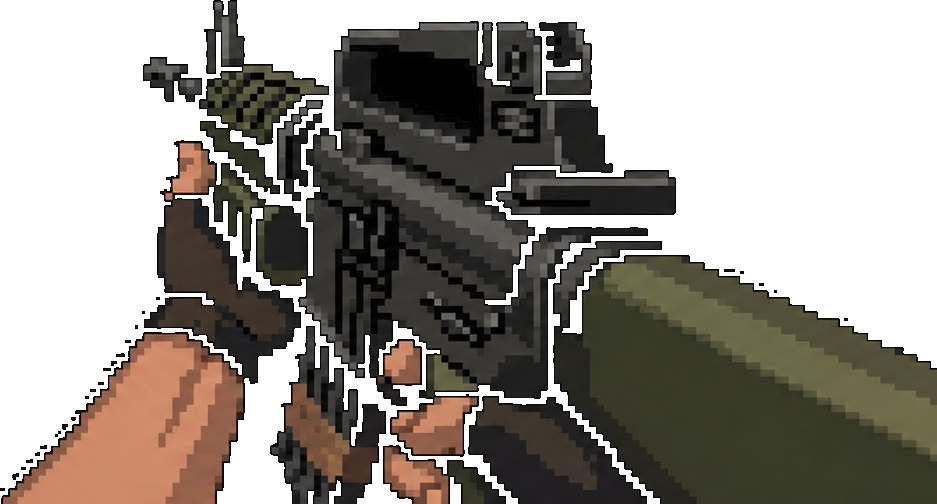
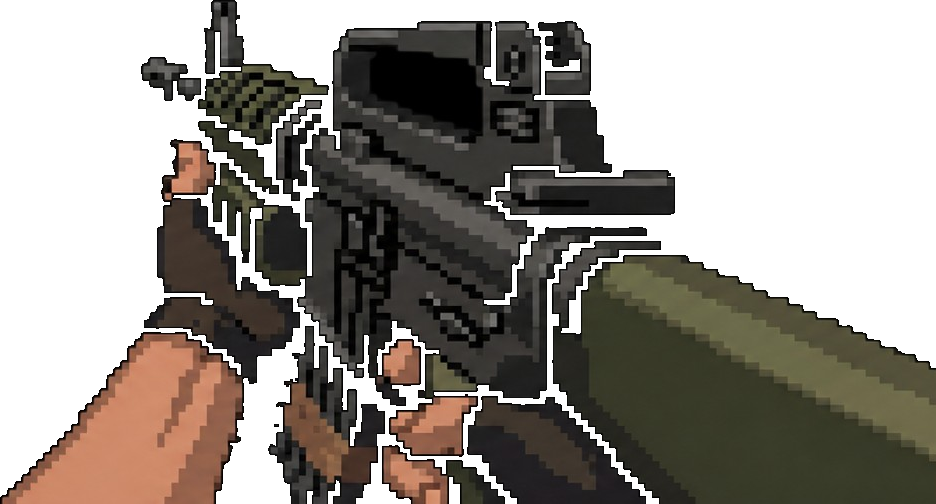
Restore outline-preserving transparent gun.png and switch renderGun back
Re-run the edge flood-fill on the original jpg with the outline-aware
stopping rule (black pixel kept opaque if any neighbor is non-black).
30,226 black pixels preserved (full outer outline + interior detail).

diff --git a/js/ui.js b/js/ui.js
@@ -226,7 +226,7 @@ const UI = (() => {
   const gunImage = new Image();
   let gunImageLoaded = false;
   gunImage.onload = () => { gunImageLoaded = true; };
-  gunImage.src = 'assets/gun.jpg';
+  gunImage.src = 'assets/gun.png';
 
   // Muzzle position normalized to gun image dimensions (front sight / barrel tip)
   const MUZZLE_NORM = { x: 0.20, y: 0.10 };
